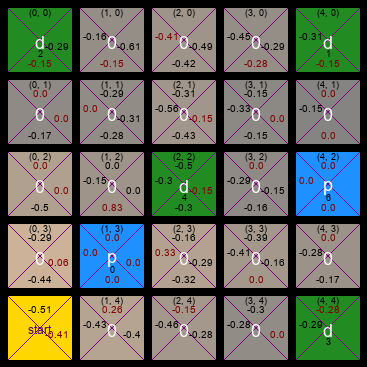
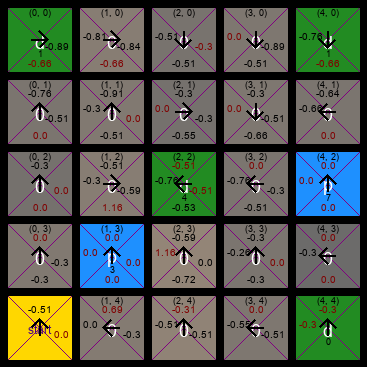
Added arrow

diff --git a/main.py b/main.py
@@ -15,8 +15,11 @@ alpha = 0.3  # learning rate
 gamma = 0.5  # discount rate
 epsilon = 0.8  # chance of being greedy in exploit policy
 
+method = ''
+policy = ''
+
 FIRST_STEPS = 500
-SECOND_STEPS = 5500
+SECOND_STEPS = 6500
 count_steps = 0
 episode = 1
 episode_list=[]
@@ -24,8 +27,15 @@ steps_count_list=[]
 terminal_reached=[]
 random.seed(random.uniform(1, 1000))
 
+def getTitleString():
+    return str('(%s, %s,' % (method, policy) +
+               " alpha={:.3f}".format(alpha) +
+               ", gamma={:.3f}".format(gamma) +
+               ", epsilon={:.3f})".format(epsilon))
+
 # global x,  y, drop_off_loc, pick_up_loc, has_block, done, world, q_offset, q_table
 # build world in starting state
+
 start_x = 0
 start_y = 4
 x = 0
@@ -100,7 +110,7 @@ def plotPerformanceBank(name='performance_bank_plot'):
         plt.plot(bank_plot_steps[:max(max_len)],
                  np.pad(ba, (0, max(max_len) - len(ba)),
                         'constant', constant_values=ba[len(ba) - 1]), label='E%d' % (i + 1))
-    plt.title('Reward performance graph each episode')
+    plt.title('Reward performance graph each episode\n' + getTitleString())
     plt.xlabel('Steps')
     plt.ylabel('Accumulated reward')
     plt.legend()
@@ -110,7 +120,7 @@ def plotPerformanceBank(name='performance_bank_plot'):
 
     plt.plot(entire_bank_plot_steps[:len(entire_bank_accumulative)],
              entire_bank_accumulative)
-    plt.title('Reward performance graph entire run')
+    plt.title('Reward performance graph entire run\n' + getTitleString())
     plt.xlabel('Steps')
     plt.ylabel('Accumulated reward')
     plt.savefig('Images/Entire_run.png')
@@ -136,7 +146,7 @@ def plotPerformanceDelSteps(name='performance_del_steps_plot'):
                 snapshot_delivery_tracker[j] = snapshot_delivery_tracker[j-1] + incre
             last_pos = i
     plt.plot(snapshot_delivery_plot_steps, snapshot_delivery_tracker)
-    plt.title('Blocks delivered performance graph')
+    plt.title('Blocks delivered performance graph\n' + getTitleString())
     plt.xlabel('Steps')
     plt.ylabel('Block delivered')
     plt.savefig('Images/%s.png' % name)
@@ -169,7 +179,8 @@ def getFloat(name):
     return val
 
 def main():
-    global fourth_expm, watch, pit_stop, drop_off_loc, pick_up_loc, alpha, gamma, epsilon, episode, world
+    global fourth_expm, watch, pit_stop, drop_off_loc, pick_up_loc
+    global alpha, gamma, epsilon, episode, world, method, policy
     default = getAcceptedInput("Use default (Q_LEARNING, PEXPLOIT, no monitor, plot, no asking for continue)?"
                                "\n(yes/no): ", ['yes', 'no'], [True, False])
     policy = ''
@@ -245,11 +256,11 @@ def main():
     # update final q_table with no block
     if fourth_expm:
         vis_objs['q_table_no_block'].visualize_gen(h, w)
-    fillQValues(h, w, q_table, world, vis_objs['q_table_no_block'], False, start_x, start_y)
+    fillQValues(h, w, q_table, world, vis_objs['q_table_no_block'], False, start_x, start_y, is_fillQ=True)
     # update final q_table with block
     if fourth_expm:
         vis_objs['q_table_with_block'].visualize_gen(h, w)
-    fillQValues(h, w, q_table, world, vis_objs['q_table_with_block'], True, start_x, start_y)
+    fillQValues(h, w, q_table, world, vis_objs['q_table_with_block'], True, start_x, start_y, is_fillQ=True)
     # update agent position
     if has_block:
         putAgent(h, w, q_table, world, vis_objs['q_table_with_block'], has_block, x, y, start_x, start_y, 'ab')
@@ -275,7 +286,7 @@ def applyAction(action, state):
             drop_off_loc.remove((x, y))
             # RECORD FIRST TIME A DROP OFF IS FULL
             if episode == 1 and len(drop_off_loc) == 3:
-                fillQValues(h, w, q_table, world, vis_objs['first_drop_off_full'], False, start_x, start_y)
+                fillQValues(h, w, q_table, world, vis_objs['first_drop_off_full'], False, start_x, start_y, is_fillQ=True)
         has_block = False
     elif action == 'p':
         world[(x, y)]['no_of_blocks'] -= 1
@@ -308,6 +319,12 @@ def Q(state, action):
 def maxQ(state, actions):
     bestAction = bestValidAction(state, actions)
     return q_table[state][actionToIndex(bestAction)]
+
+def chooseRandomAction(valid_actions):
+    if (valid_actions[0] == "d"): return ["d", 13]
+    if (valid_actions[0] == "p"): return ["p", 13]
+    index = randint(0, len(valid_actions) - 1)
+    return [valid_actions[index], -1]
 
 
 def exploitAction(state, valid_actions, epsilon):
@@ -381,14 +398,16 @@ def doSteps(steps, policy, method):
         elif method == "SARSA":
             q_table[state][actionToIndex(action)] = sarsa(state, action, reward, next_state, next_actions, policy)
 
+        world[(x, y)]['direction'] = action
+
         # RESET Q_VALUES FOR DELI AND PICK SPOT WHEN FULL AND EMPTY
         '''
         if action == 'd':
             if world[(x, y)]['no_of_blocks'] == 4:
-                q_table[state][5] = -9
+                q_table[state][5] = 0
         elif action == 'p':
             if world[(x, y)]['no_of_blocks'] == 0:
-                q_table[state][4] = -9
+                q_table[state][4] = 0
         '''
         # keep track of prev state for step visualize part
         prev_x = x
@@ -408,7 +427,7 @@ def doSteps(steps, policy, method):
             regBankAccount()
             # RECORD FIRST TERMINATE
             if episode == 1:
-                fillQValues(h, w, q_table, world, vis_objs['first_terminate'], False, start_x, start_y)
+                fillQValues(h, w, q_table, world, vis_objs['first_terminate'], False, start_x, start_y, is_fillQ=True)
             # ------------------------------
 
             print("Terminal state reached")
@@ -431,11 +450,12 @@ def doSteps(steps, policy, method):
                 if not getAcceptedInput("Continue?\n(yes/no): ", ['yes', 'no'], [True, False]):
                     episode += 1
                     break
+                watch = getAcceptedInput("Continue monitoring agent?\n(yes/no): ", ['yes', 'no'], [True, False])
             if pit_stop:
                 if getAcceptedInput("Take a snapshot?\n(yes/no): ", ['yes', 'no'], [True, False]):
                     updateWorld(h, w, world, vis_objs['world_vl'], start_x, start_y)
-                    fillQValues(h, w, q_table, world, vis_objs['q_table_no_block'], False, start_x, start_y)
-                    fillQValues(h, w, q_table, world, vis_objs['q_table_with_block'], True, start_x, start_y)
+                    fillQValues(h, w, q_table, world, vis_objs['q_table_no_block'], False, start_x, start_y, is_fillQ=True)
+                    fillQValues(h, w, q_table, world, vis_objs['q_table_with_block'], True, start_x, start_y, is_fillQ=True)
                     if has_block:
                         putAgent(h, w, q_table, world, vis_objs['q_table_with_block'],
                                  has_block, x, y, start_x, start_y, 'ab')
@@ -451,6 +471,21 @@ def doSteps(steps, policy, method):
                     episode += 1
                     break
                 watch = getAcceptedInput("Monitor agent?\n(yes/no): ", ['yes', 'no'], [True, False])
+            if fourth_expm and episode == 2:
+                updateWorld(h, w, world, vis_objs['world_vl'], start_x, start_y)
+                fillQValues(h, w, q_table, world, vis_objs['q_table_no_block'], False, start_x, start_y, is_fillQ=True)
+                fillQValues(h, w, q_table, world, vis_objs['q_table_with_block'], True, start_x, start_y, is_fillQ=True)
+                if has_block:
+                    putAgent(h, w, q_table, world, vis_objs['q_table_with_block'],
+                             has_block, x, y, start_x, start_y, 'ab')
+                else:
+                    putAgent(h, w, q_table, world, vis_objs['q_table_no_block'],
+                             has_block, x, y, start_x, start_y, 'a')
+                vis_objs['q_table_with_block'].snapshot('E%d_q_table_with_block_4thexpm' % episode)
+                vis_objs['q_table_no_block'].snapshot('E%d_q_table_no_block_4thexpm' % episode)
+                vis_objs['world_vl'].snapshot('E%d_world_4thexpm' % episode)
+                plotPerformanceBank('E%d_performance_bank_plot_4thexpm' % episode)
+                plotPerformanceDelSteps('E%d_performance_del_steps_plot_4thexpm' % episode)
 
             if fourth_expm and episode >= 2:
                 pick_up_loc = [(0, 2), (2, 0)]
@@ -487,7 +522,7 @@ def doSteps(steps, policy, method):
                     fillQValues(h, w, q_table, world, vis_objs['agent_monitor'], has_block, start_x, start_y)
                     ntw = False
                 updateCell(h, w, q_table, world, vis_objs['agent_monitor'],
-                           has_block, prev_x, prev_y, start_x, start_y)
+                           has_block, prev_x, prev_y, start_x, start_y, direction=action, monitor=True)
                 putAgent(h, w, q_table, world, vis_objs['agent_monitor'], has_block, x, y, start_x, start_y, 'ab')
             else:
                 ntw = True
@@ -495,7 +530,7 @@ def doSteps(steps, policy, method):
                     fillQValues(h, w, q_table, world, vis_objs['agent_monitor'], has_block, start_x, start_y)
                     wtn = False
                 updateCell(h, w, q_table, world, vis_objs['agent_monitor'],
-                           has_block, prev_x, prev_y, start_x, start_y)
+                           has_block, prev_x, prev_y, start_x, start_y, direction=action, monitor=True)
                 putAgent(h, w, q_table, world, vis_objs['agent_monitor'], has_block, x, y, start_x, start_y, 'a')
 
             img = cv.imread('Images/agent_monitor.png')

diff --git a/vis_funcs.py b/vis_funcs.py
@@ -18,6 +18,7 @@ def updateWorld(h, w, world, world_vl, x, y):
     for r in range(h):
         for c in range(w):
             ss = world[(c, r)]['step_scores']
+            direction = world[(c, r)]['direction']
             world_vl.fill_block(world[(c, r)]['coor'], (3*ss + 128, 2*ss + 128, ss + 128))
             if world[(c, r)]['action'] == 'd': world_vl.fill_block(world[(c, r)]['coor'], 'forestgreen')
             if world[(c, r)]['action'] == 'p': world_vl.fill_block(world[(c, r)]['coor'], 'dodgerblue')
@@ -26,6 +27,7 @@ def updateWorld(h, w, world, world_vl, x, y):
                 world_vl.write_block(world[(x, y)]['coor'], 'start', 'indigo')
             else:
                 world_vl.write_block(world[(c, r)]['coor'], world[(c, r)]['action'], 'white')
+            world_vl.put_arrow(direction, (c, r), 'black')
             world_vl.write_block(world[(c, r)]['coor'], str(world[(c, r)]['coor']), 'black', 'n', 15)
             if world[(c, r)]['action'] == 'd' or world[(c, r)]['action'] == 'p':
                 world_vl.write_block(world[(c, r)]['coor'], str(world[(c, r)]['no_of_blocks']), 'black', pos='s')
@@ -47,25 +49,27 @@ def initQTableWorld(h, w, world, world_vl, x, y):
             world_vl.write_block(world[(c, r)]['coor'], str(world[(c, r)]['coor']), 'black', 'n', 9, offset_u=8)
     print('Done init Q table')
 
-def fillQValues(h, w, q_table, world, world_vl, has_block, start_x, start_y):
+def fillQValues(h, w, q_table, world, world_vl, has_block, start_x, start_y, is_fillQ=False):
     for r in range(w):
         for c in range(h):
-            updateCell(h, w, q_table, world, world_vl, has_block, r, c, start_x, start_y, True)
+            direction = world[(r, c)]['direction']
+            updateCell(h, w, q_table, world, world_vl, has_block, r, c, start_x, start_y, is_fillQ=is_fillQ, direction=direction)
     print('Done filling Q values')
 
 def putAgent(h, w, q_table, world, world_vl, has_block, x, y, start_x, start_y, agent_name='a'):
     updateCell(h, w, q_table, world, world_vl, has_block, x, y, start_x, start_y)
     world_vl.write_block(world[(x, y)]['coor'], str(agent_name), 'red', font_s=20)
 
-def updateCell(h, w, q_table, world, world_vl, has_block, prev_x, prev_y, start_x, start_y, is_fillQ=False):
+def updateCell(h, w, q_table, world, world_vl, has_block, prev_x, prev_y, start_x, start_y, direction='', is_fillQ=False, monitor=False):
     # actions = ['n', 's', 'e', 'w']
     actions = []
     q_offset = 0
     ss = world[(prev_x, prev_y)]['step_scores']
-    if is_fillQ:
-        # world_vl.fill_block(world[(prev_x, prev_y)]['coor'], world_vl.get_color(prev_x, prev_y))
-        world_vl.fill_block(world[(prev_x, prev_y)]['coor'], (3*ss + 128, 2*ss + 128, ss + 128))
-    else:
+    if is_fillQ and not monitor:
+        world_vl.fill_block(world[(prev_x, prev_y)]['coor'], (3*ss + 105, 2*ss + 105, ss + 105))
+    elif not is_fillQ and not monitor:
+        world_vl.fill_block(world[(prev_x, prev_y)]['coor'], world_vl.get_color(prev_x, prev_y))
+    elif not is_fillQ and monitor:
         world_vl.fill_block(world[(prev_x, prev_y)]['coor'], pathen(prev_x, prev_y, world_vl))
     if world[(prev_x, prev_y)]['action'] == 'd': world_vl.fill_block(world[(prev_x, prev_y)]['coor'], 'forestgreen')
     if world[(prev_x, prev_y)]['action'] == 'p': world_vl.fill_block(world[(prev_x, prev_y)]['coor'], 'dodgerblue')
@@ -78,6 +82,7 @@ def updateCell(h, w, q_table, world, world_vl, has_block, prev_x, prev_y, start_
         world_vl.write_block(world[(prev_x, prev_y)]['coor'], world[(prev_x, prev_y)]['action'], 'white')
         world_vl.write_block(world[(prev_x, prev_y)]['coor'],
                              str(world[(prev_x, prev_y)]['coor']), 'black', 'n', 9, offset_u=8)
+    world_vl.put_arrow(direction, (prev_x, prev_y), 'black')
     if world[(prev_x, prev_y)]['action'] == 'd' or world[(prev_x, prev_y)]['action'] == 'p':
         world_vl.write_block(world[(prev_x, prev_y)]['coor'],
                              str(world[(prev_x, prev_y)]['no_of_blocks']), 'black', pos='s', font_s=9, offset_u=10)
@@ -112,7 +117,6 @@ def updateCell(h, w, q_table, world, world_vl, has_block, prev_x, prev_y, start_
             world_vl.write_block((prev_x, prev_y), str(round(q_table[state][i], 2)), 'maroon',
                                  pos=a, font_s=10)
 
-
 def updateDropAndPickSpots(h, w, q_table, has_block, drop_off_loc, pick_up_loc, world_vl, world):
     loc_list = drop_off_loc + pick_up_loc
     actions = []
@@ -120,12 +124,14 @@ def updateDropAndPickSpots(h, w, q_table, has_block, drop_off_loc, pick_up_loc, 
     for c in loc_list:
         if world[c]['action'] == 'd': world_vl.fill_block(world[c]['coor'], 'forestgreen')
         if world[c]['action'] == 'p': world_vl.fill_block(world[c]['coor'], 'dodgerblue')
+        direction = world[c]['direction']
         world_vl.put_x(c, 'purple')
         world_vl.write_block(world[c]['coor'], world[c]['action'], 'white')
         world_vl.write_block(world[c]['coor'],
                              str(world[c]['coor']), 'black', 'n', 9, offset_u=8)
         world_vl.write_block(world[c]['coor'], str(world[c]['no_of_blocks']), 'black',
                              pos='s', font_s=9, offset_u=10)
+        world_vl.put_arrow(direction, c, 'black')
         if (has_block == True):
             q_offset = w * h
         state = getStateFromCoords(c[1], c[0]) + q_offset

diff --git a/Visualize/visualize.py b/Visualize/visualize.py
@@ -15,7 +15,7 @@ class Visualize:
         img_h = num_cell_h * (block_size + gap) + gap
         img_w = num_cell_w * (block_size + gap) + gap
 
-        img = Image.new('RGB', (img_w, img_h), color='gray')
+        img = Image.new('RGB', (img_w, img_h), color='dimgray')
         draw = ImageDraw.Draw(img)
 
         # row divider
@@ -106,3 +106,53 @@ class Visualize:
         with Image.open('Images/%s.png' % f_name) as img:
             snapshot = img.copy()
             snapshot.save('Images/%s.png' % name)
+
+    def put_arrow(self,  direction, coor=(0, 0), color='white'):
+        f_name = self.name
+        x = coor[0]
+        y = coor[1]
+        start_pixel_x = gap + x * (block_size + gap)
+        start_pixel_y = gap + y * (block_size + gap)
+        with Image.open('Images/%s.png' % f_name) as img:
+            draw = ImageDraw.Draw(img)
+            if direction in ['n', 'north']:
+                # center line
+                draw.line([(start_pixel_x + block_size/2, start_pixel_y + 3*block_size/8),
+                           (start_pixel_x + block_size/2, start_pixel_y + 5*block_size/8)], fill=color, width=2)
+                # first head line
+                draw.line([(start_pixel_x + block_size/2, start_pixel_y + 3*block_size/8),
+                           (start_pixel_x + 3 * block_size/8, start_pixel_y + block_size/2)], fill=color, width=2)
+                # second head line
+                draw.line([(start_pixel_x + block_size / 2, start_pixel_y + 3 * block_size / 8),
+                           (start_pixel_x + 5 * block_size / 8, start_pixel_y + block_size / 2)], fill=color, width=2)
+            elif direction in ['s', 'south']:
+                # center line
+                draw.line([(start_pixel_x + block_size / 2, start_pixel_y + 3 * block_size / 8),
+                           (start_pixel_x + block_size / 2, start_pixel_y + 5 * block_size / 8)], fill=color, width=2)
+                # first head line
+                draw.line([(start_pixel_x + block_size / 2, start_pixel_y + 5 * block_size / 8),
+                           (start_pixel_x + 3 * block_size / 8, start_pixel_y + block_size / 2)], fill=color, width=2)
+                # second head line
+                draw.line([(start_pixel_x + block_size / 2, start_pixel_y + 5 * block_size / 8),
+                           (start_pixel_x + 5 * block_size / 8, start_pixel_y + block_size / 2)], fill=color, width=2)
+            elif direction in ['e', 'east']:
+                # center line
+                draw.line([(start_pixel_x + 3 * block_size / 8, start_pixel_y + block_size / 2),
+                           (start_pixel_x + 5 * block_size / 8, start_pixel_y + block_size / 2)], fill=color, width=2)
+                # first head line
+                draw.line([(start_pixel_x + 5 * block_size / 8, start_pixel_y + block_size / 2),
+                           (start_pixel_x + block_size / 2, start_pixel_y + 3 * block_size / 8)], fill=color, width=2)
+                # second head line
+                draw.line([(start_pixel_x + 5 * block_size / 8, start_pixel_y + block_size / 2),
+                           (start_pixel_x + block_size / 2, start_pixel_y + 5 * block_size / 8)], fill=color, width=2)
+            elif direction in ['w', 'west']:
+                # center line
+                draw.line([(start_pixel_x + 3 * block_size / 8, start_pixel_y + block_size / 2),
+                           (start_pixel_x + 5 * block_size / 8, start_pixel_y + block_size / 2)], fill=color, width=2)
+                # first head line
+                draw.line([(start_pixel_x + 3 * block_size / 8, start_pixel_y + block_size / 2),
+                           (start_pixel_x + block_size / 2, start_pixel_y + 3 * block_size / 8)], fill=color, width=2)
+                # second head line
+                draw.line([(start_pixel_x + 3 * block_size / 8, start_pixel_y + block_size / 2),
+                           (start_pixel_x + block_size / 2, start_pixel_y + 5 * block_size / 8)], fill=color, width=2)
+        img.save('Images/%s.png' % f_name)

diff --git a/WorldProcessing/readWorld.py b/WorldProcessing/readWorld.py
@@ -26,7 +26,7 @@ class ReadWorld:
     def fill_world(self, file_name):
         general_world = self.read_world(file_name)
         world = dict()
-        elements = ['coor', 'north', 'south', 'west', 'east', 'action', 'no_of_blocks', 'step_scores']
+        elements = ['coor', 'north', 'south', 'west', 'east', 'action', 'no_of_blocks', 'step_scores', 'direction']
 
         num_cells_h = len(general_world)
         num_cells_w = len(general_world[0])
@@ -66,4 +66,6 @@ class ReadWorld:
                             world[(i, j)][e] = 0
                     if e == 'step_scores':
                         world[(i, j)][e] = 0
+                    if e == 'direction':
+                        world[(i, j)][e] = ''
         return num_cells_h, num_cells_w, world

diff --git a/functions.py b/functions.py
@@ -24,12 +24,6 @@ def getNextCoords(action, world, x, y):
     if (action == 'd' or action == 'p'): return [x, y]
     return world[(x, y)][action]
 
-def chooseRandomAction(valid_actions):
-    if (valid_actions[0] == "d"): return ["d", 13]
-    if (valid_actions[0] == "p"): return ["p", 13]
-    index = randint(0, len(valid_actions) - 1)
-    return [valid_actions[index], -1]
-
 
 def actionToIndex(action):
     if action == 'north': n = 0
